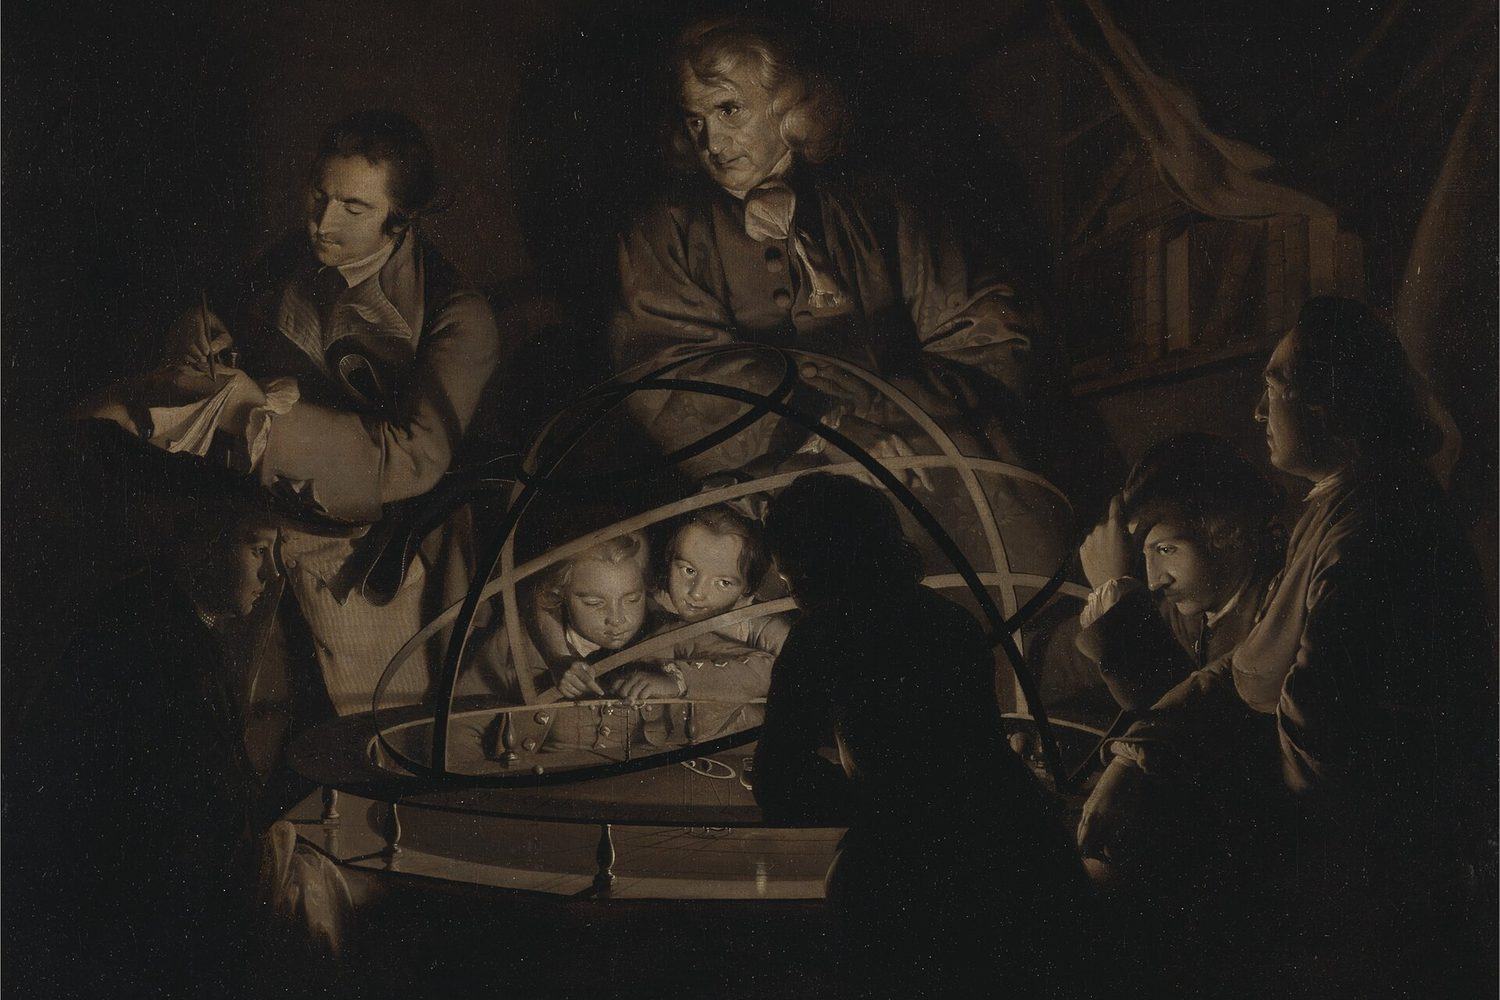
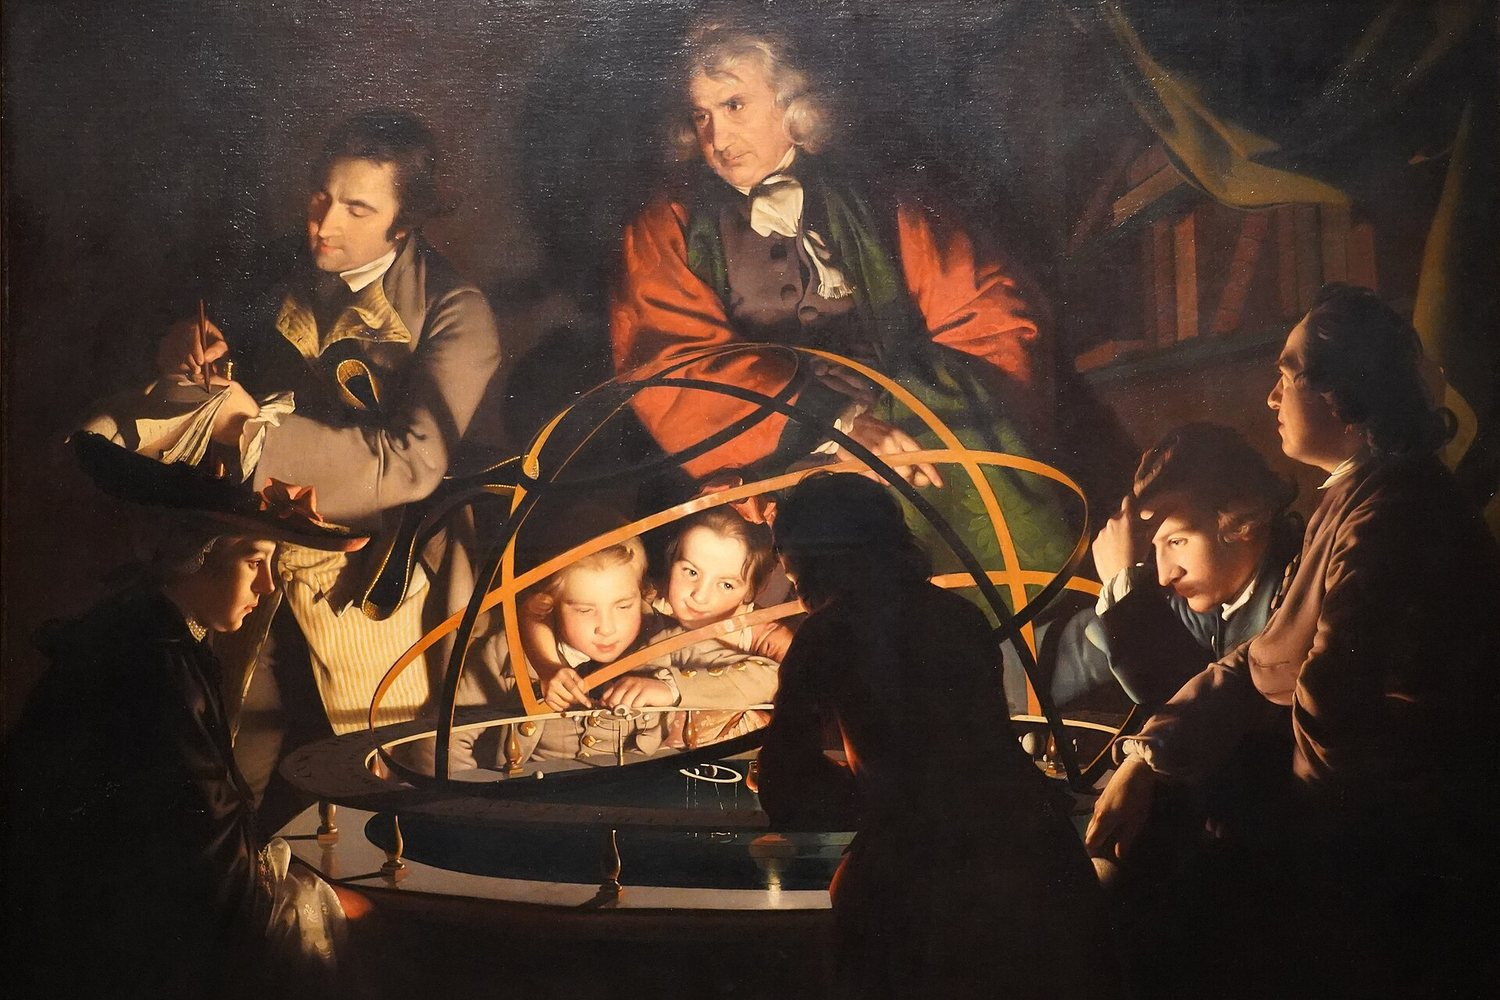
Use brighter Orrery scan, add year to each caption
Swap the intro image for a warmer, higher-contrast scan of the Orrery
where the lamp-as-sun glow reads. Caption format is now
Title - Joseph Wright of Derby (year) across all four.

diff --git a/README.md b/README.md
@@ -1,8 +1,8 @@
 <table>
 <tr>
 <td width="40%" align="center">
-<img src="assets/wright-orrery-1766.jpg" width="100%" alt="A Philosopher Lecturing on the Orrery - Joseph Wright of Derby"><br>
-<sub><i>A Philosopher Lecturing on the Orrery - Joseph Wright of Derby</i></sub>
+<img src="assets/wright-orrery-1766.jpg" width="100%" alt="A Philosopher Lecturing on the Orrery - Joseph Wright of Derby (1766)"><br>
+<sub><i>A Philosopher Lecturing on the Orrery - Joseph Wright of Derby (1766)</i></sub>
 </td>
 <td width="60%" align="center">
 
@@ -40,8 +40,8 @@ learned, liked, and done throughout this journey.
 
 </td>
 <td width="40%" align="center">
-<img src="assets/wright-air-pump-1768.jpg" width="100%" alt="An Experiment on a Bird in an Air Pump - Joseph Wright of Derby"><br>
-<sub><i>An Experiment on a Bird in an Air Pump - Joseph Wright of Derby</i></sub>
+<img src="assets/wright-air-pump-1768.jpg" width="100%" alt="An Experiment on a Bird in an Air Pump - Joseph Wright of Derby (1768)"><br>
+<sub><i>An Experiment on a Bird in an Air Pump - Joseph Wright of Derby (1768)</i></sub>
 </td>
 </tr>
 </table>
@@ -51,8 +51,8 @@ learned, liked, and done throughout this journey.
 <table>
 <tr>
 <td width="40%" align="center">
-<img src="assets/wright-phosphorus-1771.jpg" width="100%" alt="The Alchemist Discovering Phosphorus - Joseph Wright of Derby"><br>
-<sub><i>The Alchemist Discovering Phosphorus - Joseph Wright of Derby</i></sub>
+<img src="assets/wright-phosphorus-1771.jpg" width="100%" alt="The Alchemist Discovering Phosphorus - Joseph Wright of Derby (1771)"><br>
+<sub><i>The Alchemist Discovering Phosphorus - Joseph Wright of Derby (1771)</i></sub>
 </td>
 <td width="60%">
 
@@ -80,8 +80,8 @@ learned, liked, and done throughout this journey.
 
 </td>
 <td width="40%" align="center">
-<img src="assets/wright-blacksmiths-shop-1771.jpg" width="100%" alt="The Blacksmith's Shop - Joseph Wright of Derby"><br>
-<sub><i>The Blacksmith's Shop - Joseph Wright of Derby</i></sub>
+<img src="assets/wright-blacksmiths-shop-1771.jpg" width="100%" alt="The Blacksmith's Shop - Joseph Wright of Derby (1771)"><br>
+<sub><i>The Blacksmith's Shop - Joseph Wright of Derby (1771)</i></sub>
 </td>
 </tr>
 </table>

diff --git a/README.vi.md b/README.vi.md
@@ -1,8 +1,8 @@
 <table>
 <tr>
 <td width="40%" align="center">
-<img src="assets/wright-orrery-1766.jpg" width="100%" alt="A Philosopher Lecturing on the Orrery - Joseph Wright of Derby"><br>
-<sub><i>A Philosopher Lecturing on the Orrery - Joseph Wright of Derby</i></sub>
+<img src="assets/wright-orrery-1766.jpg" width="100%" alt="A Philosopher Lecturing on the Orrery - Joseph Wright of Derby (1766)"><br>
+<sub><i>A Philosopher Lecturing on the Orrery - Joseph Wright of Derby (1766)</i></sub>
 </td>
 <td width="60%" align="center">
 
@@ -40,8 +40,8 @@ trong suốt hành trình đó.
 
 </td>
 <td width="40%" align="center">
-<img src="assets/wright-air-pump-1768.jpg" width="100%" alt="An Experiment on a Bird in an Air Pump - Joseph Wright of Derby"><br>
-<sub><i>An Experiment on a Bird in an Air Pump - Joseph Wright of Derby</i></sub>
+<img src="assets/wright-air-pump-1768.jpg" width="100%" alt="An Experiment on a Bird in an Air Pump - Joseph Wright of Derby (1768)"><br>
+<sub><i>An Experiment on a Bird in an Air Pump - Joseph Wright of Derby (1768)</i></sub>
 </td>
 </tr>
 </table>
@@ -51,8 +51,8 @@ trong suốt hành trình đó.
 <table>
 <tr>
 <td width="40%" align="center">
-<img src="assets/wright-phosphorus-1771.jpg" width="100%" alt="The Alchemist Discovering Phosphorus - Joseph Wright of Derby"><br>
-<sub><i>The Alchemist Discovering Phosphorus - Joseph Wright of Derby</i></sub>
+<img src="assets/wright-phosphorus-1771.jpg" width="100%" alt="The Alchemist Discovering Phosphorus - Joseph Wright of Derby (1771)"><br>
+<sub><i>The Alchemist Discovering Phosphorus - Joseph Wright of Derby (1771)</i></sub>
 </td>
 <td width="60%">
 
@@ -80,8 +80,8 @@ trong suốt hành trình đó.
 
 </td>
 <td width="40%" align="center">
-<img src="assets/wright-blacksmiths-shop-1771.jpg" width="100%" alt="The Blacksmith's Shop - Joseph Wright of Derby"><br>
-<sub><i>The Blacksmith's Shop - Joseph Wright of Derby</i></sub>
+<img src="assets/wright-blacksmiths-shop-1771.jpg" width="100%" alt="The Blacksmith's Shop - Joseph Wright of Derby (1771)"><br>
+<sub><i>The Blacksmith's Shop - Joseph Wright of Derby (1771)</i></sub>
 </td>
 </tr>
 </table>
